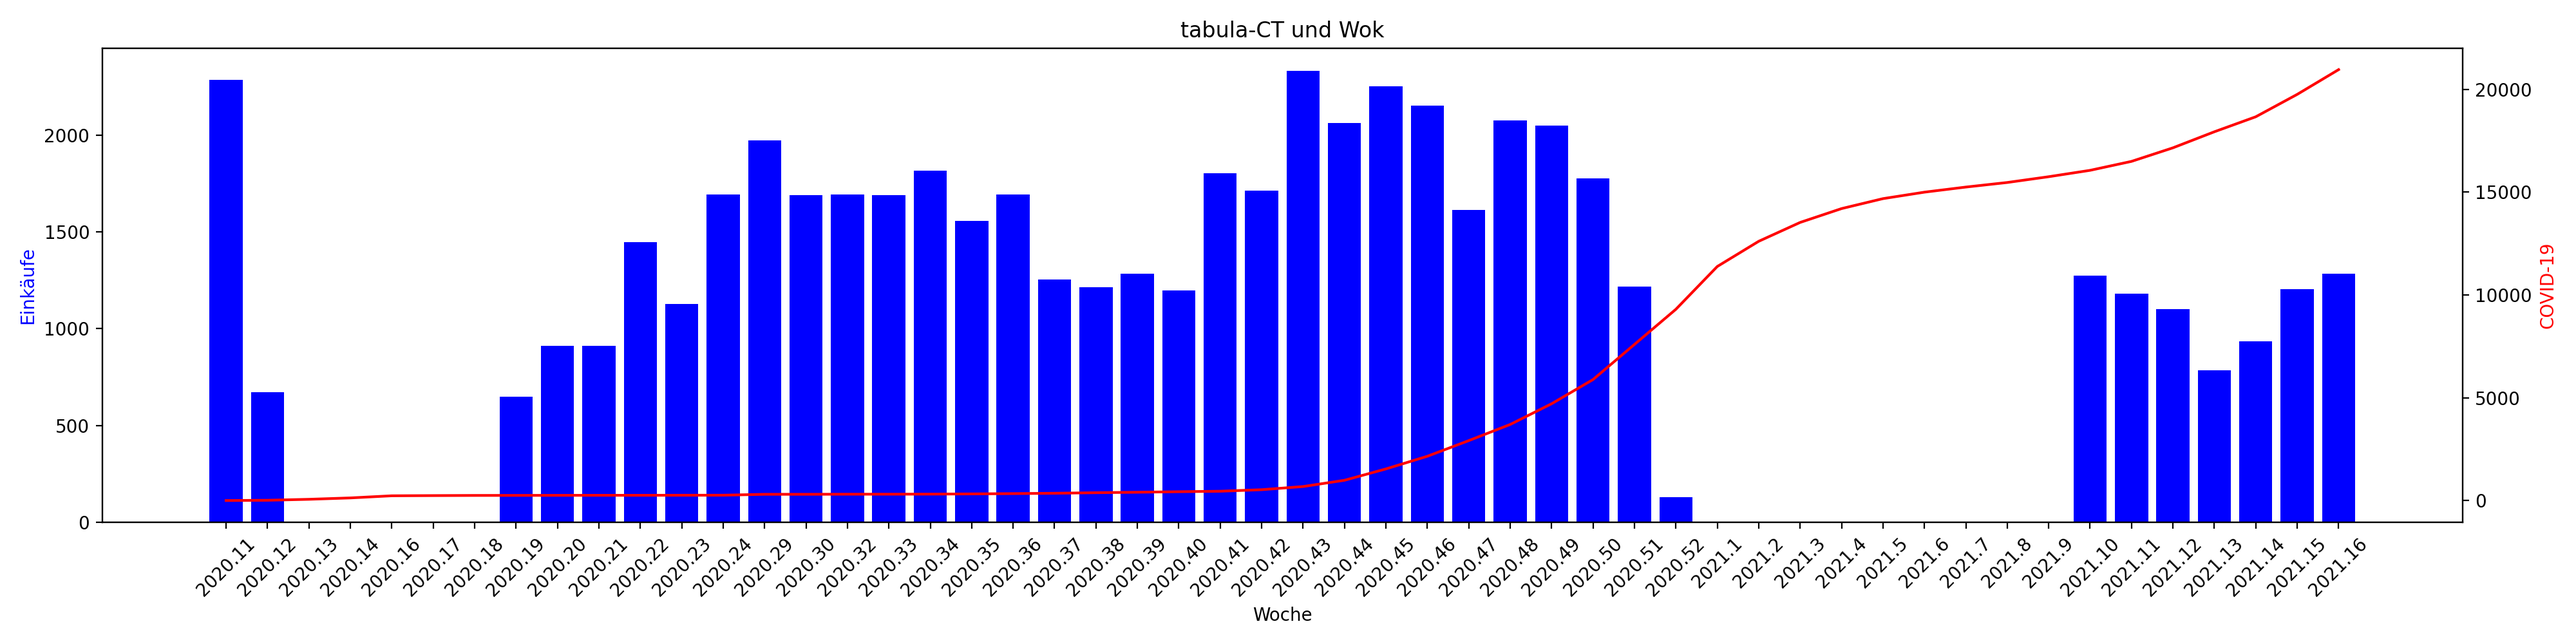
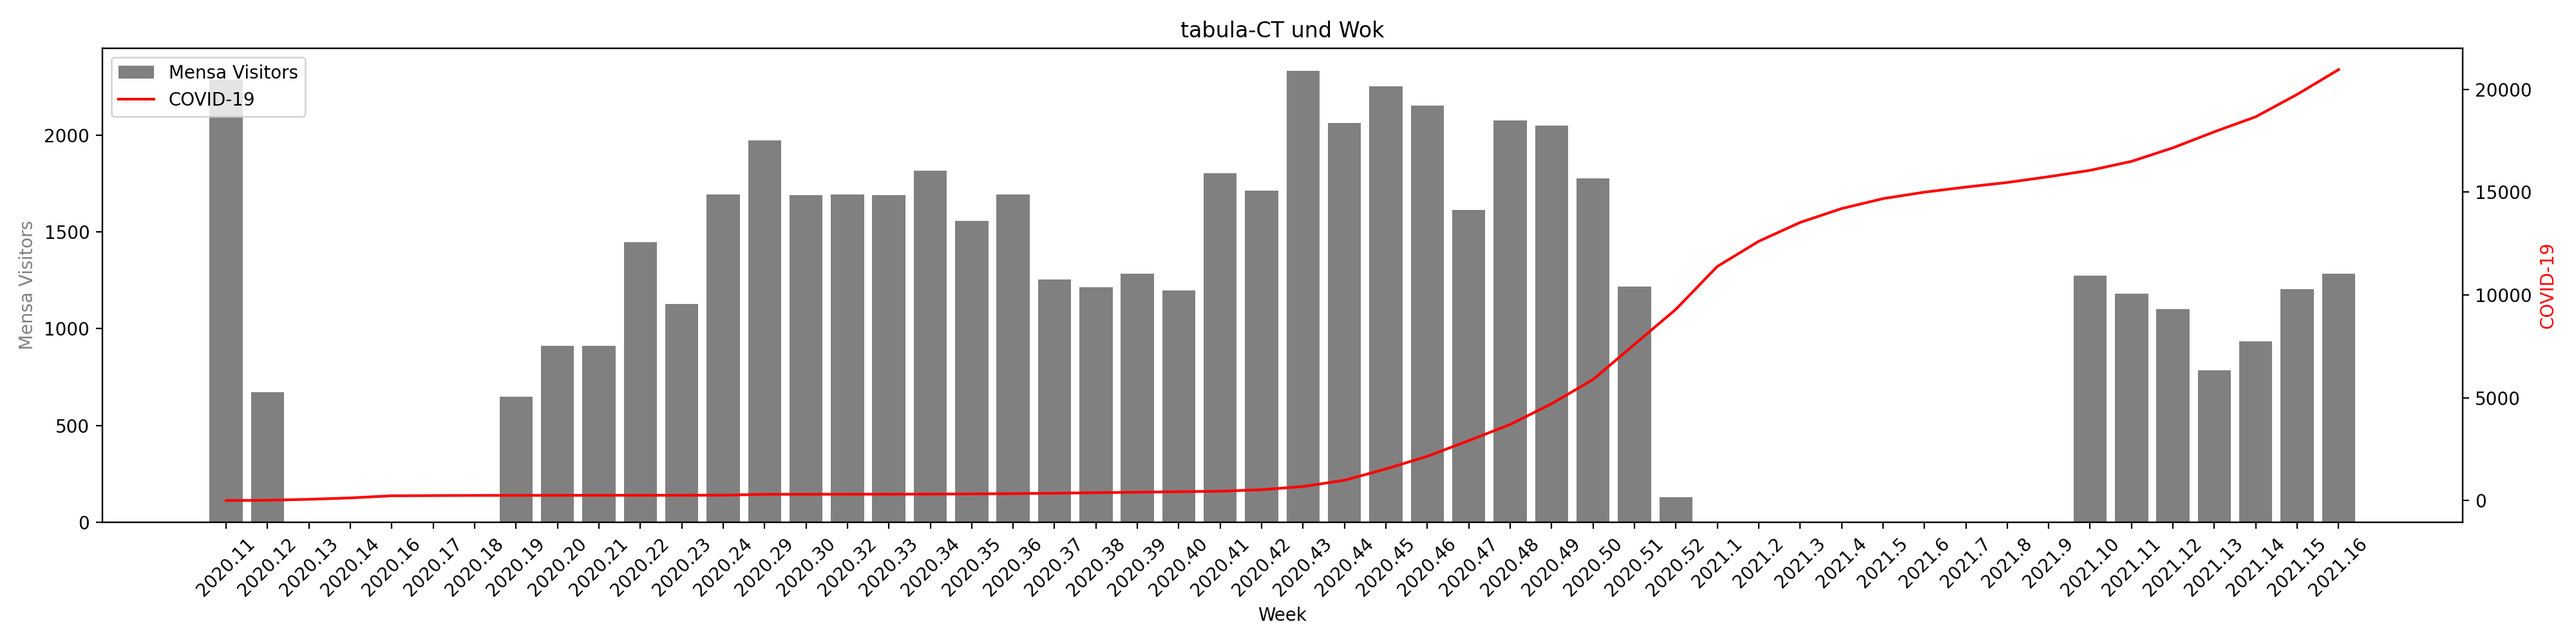
Add legend to the graphs

diff --git a/nerdcup.py b/nerdcup.py
@@ -16,14 +16,16 @@ def mensa_isolated(mensa_list, output):
         fig, ax1 = plt.subplots(figsize=(20, 5))
         plt.xticks(rotation=45)
         ax1.set_title(f"{mensa_names[index]}")
-        ax1.set_xlabel("Woche")
-        ax1.set_ylabel("Einkäufe", color="blue")
-        ax1.bar(height=anzahl, x=woche, width=0.8, bottom=None, align='center', color="blue")
+        ax1.set_xlabel("Week")
+        ax1.set_ylabel("Mensa Visitors", color="gray")
+        l1 = ax1.bar(height=anzahl, x=woche, width=0.8, bottom=None, align='center', color="gray")
 
         ax2 = ax1.twinx()
         ax2.set_ylabel("COVID-19", color="red")
-        ax2.plot(woche, covid, color="red")
+        l2, = ax2.plot(woche, covid, color="red")
         
+        plt.legend([l1, l2], ["Mensa Visitors", "COVID-19"])
+
         fig.tight_layout()
         plt.savefig(f"{output}/mensa{index}.png", dpi=200)
 
@@ -35,14 +37,16 @@ def covid_temperature(mensa_list, output):
     fig, ax1 = plt.subplots(figsize=(20, 5))
     plt.xticks(rotation=45)
     ax1.set_title(f"Temp and Covid")
-    ax1.set_xlabel("Woche")
+    ax1.set_xlabel("Week")
     ax1.set_ylabel("Temp", color="blue")
-    ax1.plot(woche, temp, color="blue")
+    l1, = ax1.plot(woche, temp, color="blue")
 
     ax2 = ax1.twinx()
     ax2.set_ylabel("COVID-19", color="red")
-    ax2.plot(woche, covid, color="red")
-        
+    l2, = ax2.plot(woche, covid, color="red")
+    
+    plt.legend([l1, l2], ["Temperature", "COVID-19"])
+
     fig.tight_layout()
     plt.savefig(f"{output}/Temp_covid.png", dpi=200)
 
@@ -59,29 +63,65 @@ def covid_temperature_mensa(mensa_list, output):
     
     fig, ax1 = plt.subplots(figsize=(20, 5))
     plt.xticks(rotation=45)
-    ax1.set_xlabel("Woche")
-    ax1.set_ylabel("Einkäufe", color="blue")
-    ax1.bar(height=total_mensa, x=woche, width=0.8, bottom=None, align='center', color="blue")
+    ax1.set_xlabel("Week")
+    ax1.set_ylabel("Mensa Visitors", color="gray")
+    l1 = ax1.bar(height=total_mensa, x=woche, width=0.8, bottom=None, align='center', color="gray")
 
     ax3 = ax1.twinx()
     ax3.set_title(f"Temperature, Covid and Mensa Visitors")
-    ax3.set_xlabel("Woche")
-    ax3.set_ylabel("Temp", color="green")
-    ax3.plot(woche, temp, color="green")
+    ax3.set_xlabel("Week")
+    ax3.set_ylabel("Temp", color="blue")
+    l3, = ax3.plot(woche, temp, color="blue")
 
     ax2 = ax1.twinx()
     ax2.set_ylabel("COVID-19", color="red")
-    ax2.plot(woche, covid, color="red")
-        
+    l2, = ax2.plot(woche, covid, color="red")
+
+    plt.legend([l1, l2, l3], ["Mensa Visitors", "COVID-19", "Temperature"])
+
     fig.tight_layout()
-    plt.savefig(f"{output}/Temp_covid_mensa.png", dpi=200)    
+    plt.savefig(f"{output}/Temp_covid_mensa.png", dpi=200)   
+
+
+def covid_humidity_mensa(mensa_list, output):
+    temp = mensa_list[0]["hum_DHT"].values
+    covid = mensa_list[0]["COVID"].values
+    woche = mensa_list[0]["Woche"].values
+    
+    # Calculate the sum of all visitors in every week
+    total_mensa = [0 for x in range(len(temp))]
+    for mensa in mensa_list:
+        for index, count in enumerate(mensa["Anzahl"]):
+            total_mensa[index] += count
+    
+    fig, ax1 = plt.subplots(figsize=(20, 5))
+    plt.xticks(rotation=45)
+    ax1.set_xlabel("Week")
+    ax1.set_ylabel("Mensa Visitors", color="gray")
+    l1 = ax1.bar(height=total_mensa, x=woche, width=0.8, bottom=None, align='center', color="gray", label="Mensa Visitors")
+
+    ax3 = ax1.twinx()
+    ax3.set_title(f"Humidity, Covid and Mensa Visitors")
+    ax3.set_xlabel("Week")
+    ax3.set_ylabel("Humidity", color="blue")
+    l3, = ax3.plot(woche, temp, color="blue", label="Humidity")
+
+    ax2 = ax1.twinx()
+    ax2.set_ylabel("COVID-19", color="red")
+    l2, = ax2.plot(woche, covid, color="red", label="COVID-19")
+    
+    plt.legend([l1, l2, l3], ["Mensa Visitors", "COVID-19", "Humidity"])
+
+    fig.tight_layout()
+    plt.savefig(f"{output}/Hum_covid_mensa.png", dpi=200)   
 
 def main():
     total_values = preprocessing()
     
-    # mensa_isolated(total_values, "./images/")
-    # covid_temperature(total_values, "./images")
+    mensa_isolated(total_values, "./images/")
+    covid_temperature(total_values, "./images")
     covid_temperature_mensa(total_values, "./images")
+    covid_humidity_mensa(total_values, "./images")
     
 
 if __name__ == "__main__":
